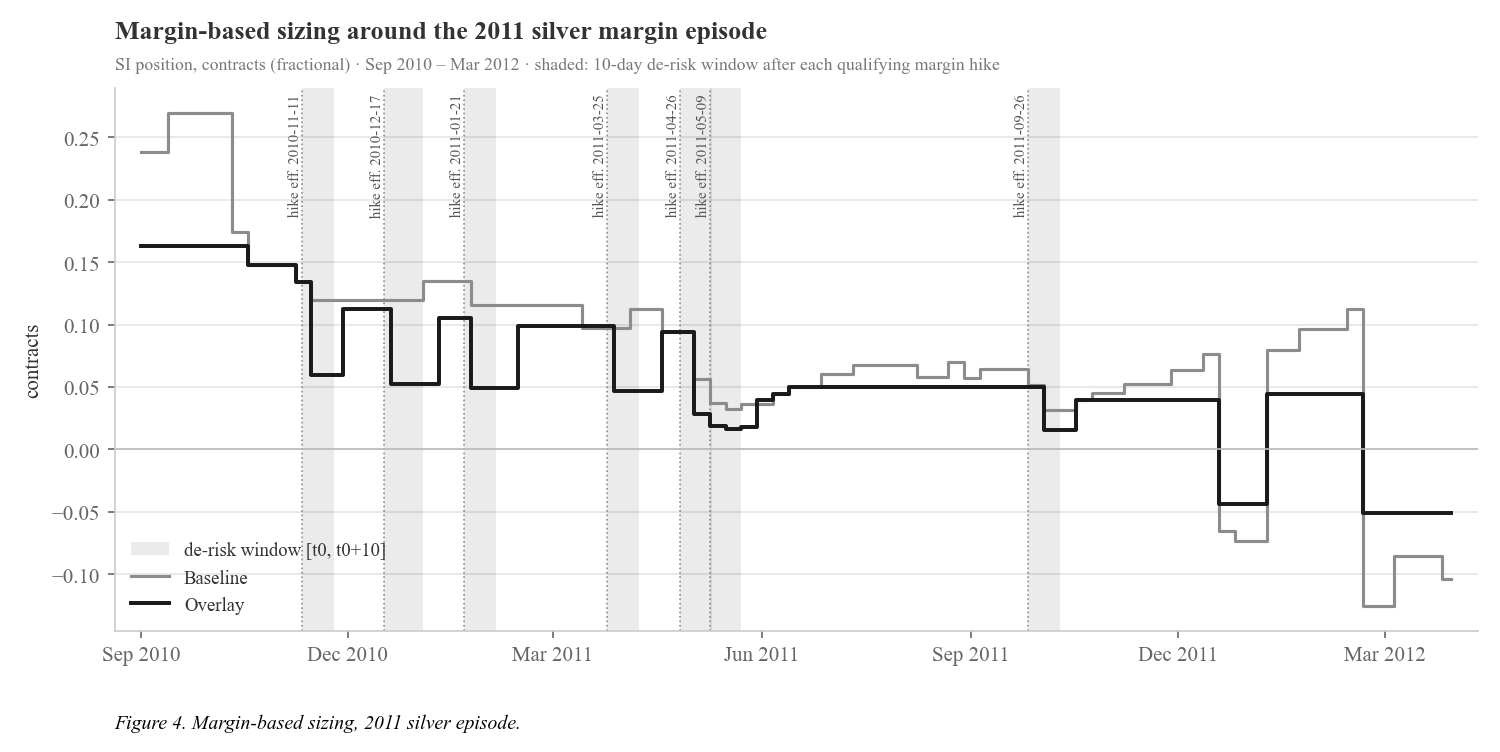
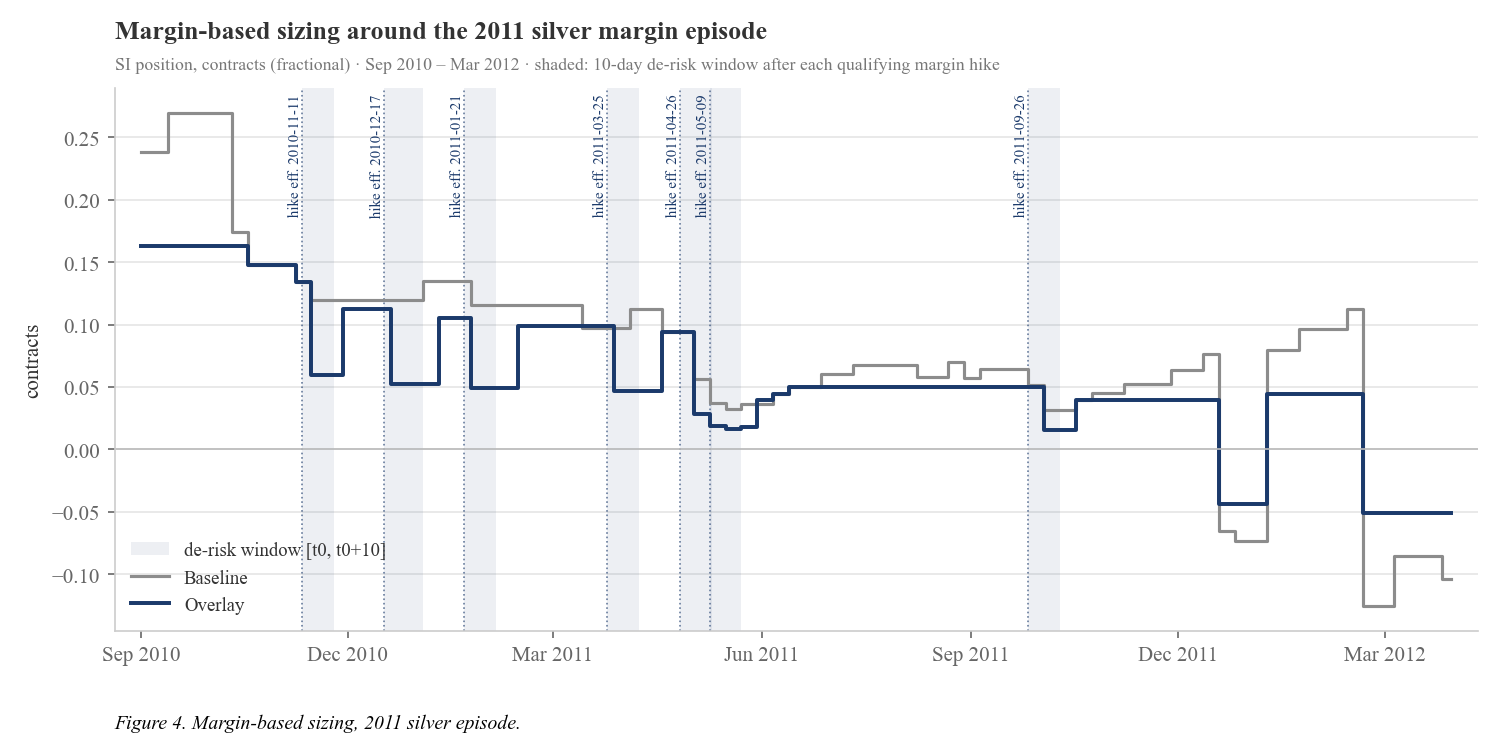
Exhibits: color palette restored, chunk comments in the code excerpts, no title em dashes
No change to strategy logic or results. backtest_path2.py gains ten
comment lines (a few words each, one above each chunk of the two excerpted
blocks) and no code lines; the backtest's own outputs (equity_curves,
drawdown, overlay_diagnostic PNGs) are byte-identical after the rerun and the
event rule still matches events_v3.csv (201 events).

- Palette: navy (#1b3a6b) for the overlay series, positive bars, event
  markers and table group headers; gray (#8c8c8c) baseline; muted red
  (#a94442) for losing years; shaded bands a light navy tint. Code exhibits
  use muted syntax colors (navy keywords, green strings, red numbers, gray
  italic comments).
- Titles of Figures 2, 3 and 5 lose their em dashes ("Cumulative net P&L,
  overlay vs baseline"; "Drawdown from high-water mark, five worst overlay
  episodes shaded"; "Annual net returns, overlay variant").
- Figures 6 and 7 re-excerpted with the comments: sizing block now lines
  258-276 (19 lines), event rule lines 151-173 (23 lines). The excerpt ranges
  are located by comment markers at render time, so later edits above the
  blocks cannot leave the figures pointing at stale line numbers.
- exhibits.md line references updated.

diff --git a/scripts/exhibit_restyle.py b/scripts/exhibit_restyle.py
@@ -6,9 +6,10 @@ reproduces the committed numbers exactly); drawdown-episode dates are taken
 verbatim from, and every summary-table value is parsed out of, the committed
 strategy_results.md; the two code exhibits are excerpts of backtest_path2.py
 itself, read from disk at render time (never retyped).
-Writes seven exhibit PNGs at 150 dpi — white background, grayscale only
-(near-black overlay, medium-gray baseline, light-gray shading), serif type,
-each with its caption rendered beneath in italic:
+Writes seven exhibit PNGs at 150 dpi — white background, a restrained palette
+(navy overlay, gray baseline, muted red for losing years, muted syntax colors
+in the code exhibits), serif type, each with its caption rendered beneath in
+italic:
   FIG1_summary.png, FIG2_equity.png, FIG3_drawdown.png, FIG4_si2011.png,
   FIG5_annual.png, FIG6_sizing_code.png, FIG7_event_code.png
 strategy_results.md is snapshot/restored, not modified. Needs pygments for the
@@ -46,11 +47,12 @@ events = bt["events"]
 td_shift = bt["td_shift"]
 
 # ------------------------------------------------------------- shared style
-# grayscale only: near-black overlay, medium-gray baseline, light-gray bands
-OVERLAY = "#1a1a1a"       # overlay series, positive bars
-BASELINE = "#8c8c8c"      # baseline series, negative bars
-MARK = "#555555"          # event markers and their labels
-SHADE = dict(color="#000000", alpha=0.08, lw=0)   # light gray shaded bands
+# restrained palette: navy overlay, gray baseline, muted red for losing years
+NAVY = "#1b3a6b"          # overlay series, positive bars, event markers, headers
+GRAY = "#8c8c8c"          # baseline series
+RED = "#a94442"           # negative bars
+LABEL = "#555555"         # drawdown episode labels
+SHADE = dict(color=NAVY, alpha=0.08, lw=0)   # light navy-tinted bands
 BLACK = "#000000"
 INK = "#333333"
 FAINT = "#777777"
@@ -125,14 +127,14 @@ DT = pd.to_datetime(all_days)
 # ---------------------------------------------------- FIG2: cumulative net P&L
 def fig_equity():
     fig, ax = chart(10, 5.2)
-    for key, c, lw, lbl in [("overlay", OVERLAY, 2.0, "Overlay"),
-                            ("baseline", BASELINE, 1.6, "Baseline")]:
+    for key, c, lw, lbl in [("overlay", NAVY, 2.0, "Overlay"),
+                            ("baseline", GRAY, 1.6, "Baseline")]:
         y = PORT[key].net.cumsum() / CAPITAL * 100
         ax.plot(DT, y, color=c, lw=lw, label=lbl)
         ax.annotate(lbl, (DT[-1], y.iloc[-1]), xytext=(6, 0),
                     textcoords="offset points", color=c, fontsize=9.5,
                     fontweight="bold", va="center")
-    headed(ax, "Cumulative net P&L — overlay vs baseline", SUB_FULL)
+    headed(ax, "Cumulative net P&L, overlay vs baseline", SUB_FULL)
     ax.set_ylabel("% of capital")
     date_axis(ax)
     ax.margins(x=0.06)
@@ -150,8 +152,8 @@ EPISODES = [("1st worst −9.4%", "Jul 2008–Feb 2010", "2008-07-02", "2010-02-
 
 def fig_drawdown():
     fig, ax = chart(10, 4.6)
-    for key, c, lw, lbl in [("baseline", BASELINE, 1.3, "Baseline"),
-                            ("overlay", OVERLAY, 1.8, "Overlay")]:
+    for key, c, lw, lbl in [("baseline", GRAY, 1.3, "Baseline"),
+                            ("overlay", NAVY, 1.8, "Overlay")]:
         r = PORT[key].net.cumsum() / CAPITAL
         dd = ((r - r.cummax()) * 100).to_numpy(dtype=float)
         ax.plot(DT, dd, color=c, lw=lw, label=lbl)
@@ -160,9 +162,9 @@ def fig_drawdown():
         ax.axvspan(t0, t1, **SHADE)
         # labels at the episode midpoint, in the band below the deepest drawdown
         ax.text(t0 + (t1 - t0) / 2, -12.3, f"{line1}\n{line2}",
-                ha="center", va="top", fontsize=7.4, color=MARK)
+                ha="center", va="top", fontsize=7.4, color=LABEL)
     ax.set_ylim(-14.4, 0.6)
-    headed(ax, "Drawdown from high-water mark — five worst overlay episodes shaded",
+    headed(ax, "Drawdown from high-water mark, five worst overlay episodes shaded",
            SUB_FULL)
     ax.set_ylabel("% of capital")
     # legend in the header band, clear of the episode labels along the bottom
@@ -188,13 +190,13 @@ def fig_si2011():
             continue
         ax.axvspan(pd.to_datetime(t_e), pd.to_datetime(t_end), **SHADE,
                    label="de-risk window [t0, t0+10]" if first else None)
-        ax.axvline(pd.to_datetime(t_e), color=MARK, lw=0.8, ls=":", alpha=0.65)
+        ax.axvline(pd.to_datetime(t_e), color=NAVY, lw=0.8, ls=":", alpha=0.65)
         tr = mtransforms.blended_transform_factory(ax.transData, ax.transAxes)
         ax.text(pd.to_datetime(t_e), 0.99, f" hike eff. {d_e}", transform=tr,
-                rotation=90, va="top", ha="right", fontsize=7.2, color=MARK)
+                rotation=90, va="top", ha="right", fontsize=7.2, color=NAVY)
         first = False
-    for key, c, lw, lbl in [("baseline", BASELINE, 1.5, "Baseline"),
-                            ("overlay", OVERLAY, 1.9, "Overlay")]:
+    for key, c, lw, lbl in [("baseline", GRAY, 1.5, "Baseline"),
+                            ("overlay", NAVY, 1.9, "Overlay")]:
         ax.step(wdt, VARIANTS[key][P].pos_after[win], where="post",
                 color=c, lw=lw, label=lbl)
     ax.axhline(0, color="#bbbbbb", lw=0.8)
@@ -217,10 +219,10 @@ def fig_annual():
            for y in years]
     labels = [y if y != "2024" else "2024*" for y in years]
     fig, ax = chart(10, 4.4)
-    ax.bar(labels, ann, color=[OVERLAY if v >= 0 else BASELINE for v in ann],
+    ax.bar(labels, ann, color=[NAVY if v >= 0 else RED for v in ann],
            width=0.72, zorder=3)
     ax.axhline(0, color=INK, lw=1.3, zorder=4)
-    headed(ax, "Annual net returns — overlay variant",
+    headed(ax, "Annual net returns, overlay variant",
            "2001–2024 (*2024 through 03-28) · % of $500K capital · net of costs")
     ax.set_ylabel("% of capital")
     ax.tick_params(axis="x", rotation=60)
@@ -335,7 +337,8 @@ def fig_summary_table():
         x0, x1 = L + g * gw, L + (g + 1) * gw
         if g:
             rule(x0, y_top, x0, y_bot, INNER)
-        txt(x0 + PAD, y_head, title, fontsize=FS_H, fontweight="bold", va="center")
+        txt(x0 + PAD, y_head, title, fontsize=FS_H, fontweight="bold", color=NAVY,
+            va="center")
         for i, (name, val) in enumerate(rows):
             y = y_row0 + i * ROW
             txt(x0 + PAD, y, name, fontsize=FS_B, va="center")
@@ -348,7 +351,8 @@ def fig_summary_table():
         rule(x0, y_top2, x1, y_top2, OUTER)
         rule(x0, y_mid2, x1, y_mid2, INNER)
         rule(x0, y_bot2, x1, y_bot2, OUTER)
-        txt(x0 + PAD, y_head2, title, fontsize=FS_H, fontweight="bold", va="center")
+        txt(x0 + PAD, y_head2, title, fontsize=FS_H, fontweight="bold", color=NAVY,
+            va="center")
         cw = (x1 - x0 - 2 * PAD) / len(cols)
         for j, (lab, val) in enumerate(cols):
             xr = x0 + PAD + (j + 1) * cw
@@ -361,13 +365,14 @@ def fig_summary_table():
 
 # ------------------------------------------------ FIG6 / FIG7: code excerpts
 # Verbatim lines of the committed script, dedented for display and tokenized
-# with pygments; "highlighting" is grayscale — weight and shade instead of hue.
+# with pygments; muted syntax colors.
 CODE_FS = 9
 CODE_STYLE = [
-    (Token.Keyword, dict(fontweight="bold", color=BLACK)),
-    (Token.Operator.Word, dict(fontweight="bold", color=BLACK)),   # and, or, not, in, is
+    (Token.Keyword, dict(fontweight="bold", color=NAVY)),
+    (Token.Operator.Word, dict(fontweight="bold", color=NAVY)),   # and, or, not, in, is
     (Token.Comment, dict(fontstyle="italic", color=FAINT)),
-    (Token.Literal.String, dict(color=MARK)),
+    (Token.Literal.String, dict(color="#2e6b3f")),
+    (Token.Literal.Number, dict(color=RED)),
 ]
 
 
@@ -375,7 +380,16 @@ def token_style(ttype):
     for t, st in CODE_STYLE:
         if ttype in t:
             return st
-    return dict(color=OVERLAY)
+    return dict(color="#1a1a1a")
+
+
+def find_block(rel_path, first_marker, last_marker):
+    """Line range of the excerpt: from the line containing first_marker to the
+    next line whose stripped text equals last_marker."""
+    lines = (REPO / rel_path).read_text().splitlines()
+    first = next(i for i, l in enumerate(lines, 1) if first_marker in l)
+    last = next(i for i, l in enumerate(lines, 1) if i >= first and l.strip() == last_marker)
+    return rel_path, first, last
 
 
 def fig_code(n, rel_path, first, last):
@@ -414,10 +428,13 @@ def fig_code(n, rel_path, first, last):
 
 # sigma = max(realized, margin-implied) -> contract target, de-risk halving,
 # integer rounding (inside run_market's weekly loop)
-FIG6_SRC = ("scripts/backtest_path2.py", 253, 266)
+FIG6_SRC = find_block("scripts/backtest_path2.py",
+                      "# realized vol and margin-implied vol",
+                      "target = float(np.rint(target))")
 # maintenance level on a business-day grid, the >=5% five-day cumulative
 # increase test, and the 10-trading-day anchor clustering (qualifying_events)
-FIG7_SRC = ("scripts/backtest_path2.py", 151, 168)
+FIG7_SRC = find_block("scripts/backtest_path2.py",
+                      "# maintenance margin level by effective date", "i = j")
 
 if __name__ == "__main__":
     for make, name in ((fig_summary_table, "FIG1_summary.png"),
@@ -432,3 +449,5 @@ if __name__ == "__main__":
         plt.close(fig)
     print("wrote FIG1_summary, FIG2_equity, FIG3_drawdown, FIG4_si2011, "
           "FIG5_annual, FIG6_sizing_code, FIG7_event_code (.png)")
+    print(f"FIG6 excerpt: {FIG6_SRC[0]} lines {FIG6_SRC[1]}-{FIG6_SRC[2]} | "
+          f"FIG7 excerpt: {FIG7_SRC[0]} lines {FIG7_SRC[1]}-{FIG7_SRC[2]}")

diff --git a/scripts/backtest_path2.py b/scripts/backtest_path2.py
@@ -148,15 +148,20 @@ def ev_td_shift(prod, d, k):
 
 def qualifying_events(prod, start=None):
     g = margin[margin["product"] == prod].drop_duplicates("effective_date", keep="last")
+    # maintenance margin level by effective date
     lv = g.set_index("effective_date").maintenance.astype(float)
     pct = lv.pct_change()
+    # business-day grid, carried forward
     grid = pd.bdate_range(lv.index.min(), SPAN_END)
     level = lv.reindex(grid.strftime("%Y-%m-%d")).ffill()
+    # cumulative change over five business days
     cum5 = level / level.shift(5) - 1.0
+    # qualifying days: increases with cum5 >= 5%
     inc = set(d for d, v in pct.items() if v == v and v > 0)
     qd = sorted((d, float(cum5.loc[d])) for d in level.index
                 if d in inc and cum5.loc[d] == cum5.loc[d] and cum5.loc[d] >= 0.05
                 and (start is None or d >= start))
+    # anchor clustering: one event per 10 trading days
     ev, i = [], 0
     while i < len(qd):
         d0 = qd[i][0]
@@ -250,18 +255,23 @@ def run_market(p, variant, integer=False):
         if i >= SIG_LOOKBACK:
             chg = fr.A.iloc[i] - fr.A.iloc[i - SIG_LOOKBACK]
             sig = float(np.sign(chg))
+        # realized vol and margin-implied vol
         sigma_r = fr.ewma.iloc[i]
         ml = fr.mlevel.iloc[i]
         sigma_m = ml / Z_MARGIN if ml == ml else np.nan
+        # overlay uses the larger of the two
         if variant == "overlay":
             sigma = np.nanmax([sigma_r, sigma_m])
         else:
             sigma = sigma_r
+        # signed contracts for the vol budget
         target = 0.0
         if sig != 0.0 and sigma == sigma and sigma > 0:
             target = sig * BUDGET / sigma
+            # halve inside a post-hike de-risk window
             if variant == "overlay" and f in derisk_days[p]:
                 target *= 0.5
+        # integer pass: whole contracts
         if integer:
             target = float(np.rint(target))
         diag.append((f, sigma_r, sigma_m, target))

diff --git a/exhibits.md b/exhibits.md
@@ -33,12 +33,12 @@ with thinner returns after.
 
 ![Figure 6](FIG6_sizing_code.png)
 **Figure 6.** Position sizing implementation. scripts/backtest_path2.py lines
-253–266, verbatim: sigma = max(realized, margin-implied) and the contract
+258–276, verbatim: sigma = max(realized, margin-implied) and the contract
 target, with the de-risk halving and integer rounding.
 
 ![Figure 7](FIG7_event_code.png)
 **Figure 7.** Margin event detection. scripts/backtest_path2.py lines
-151–168, verbatim: maintenance level on a business-day grid, the ≥5% five-day
+151–173, verbatim: maintenance level on a business-day grid, the ≥5% five-day
 cumulative increase test, and the 10-trading-day anchor clustering.
 
 **Table 1.** Sub-periods, net (ann ret / ann vol / Sharpe / max DD).
